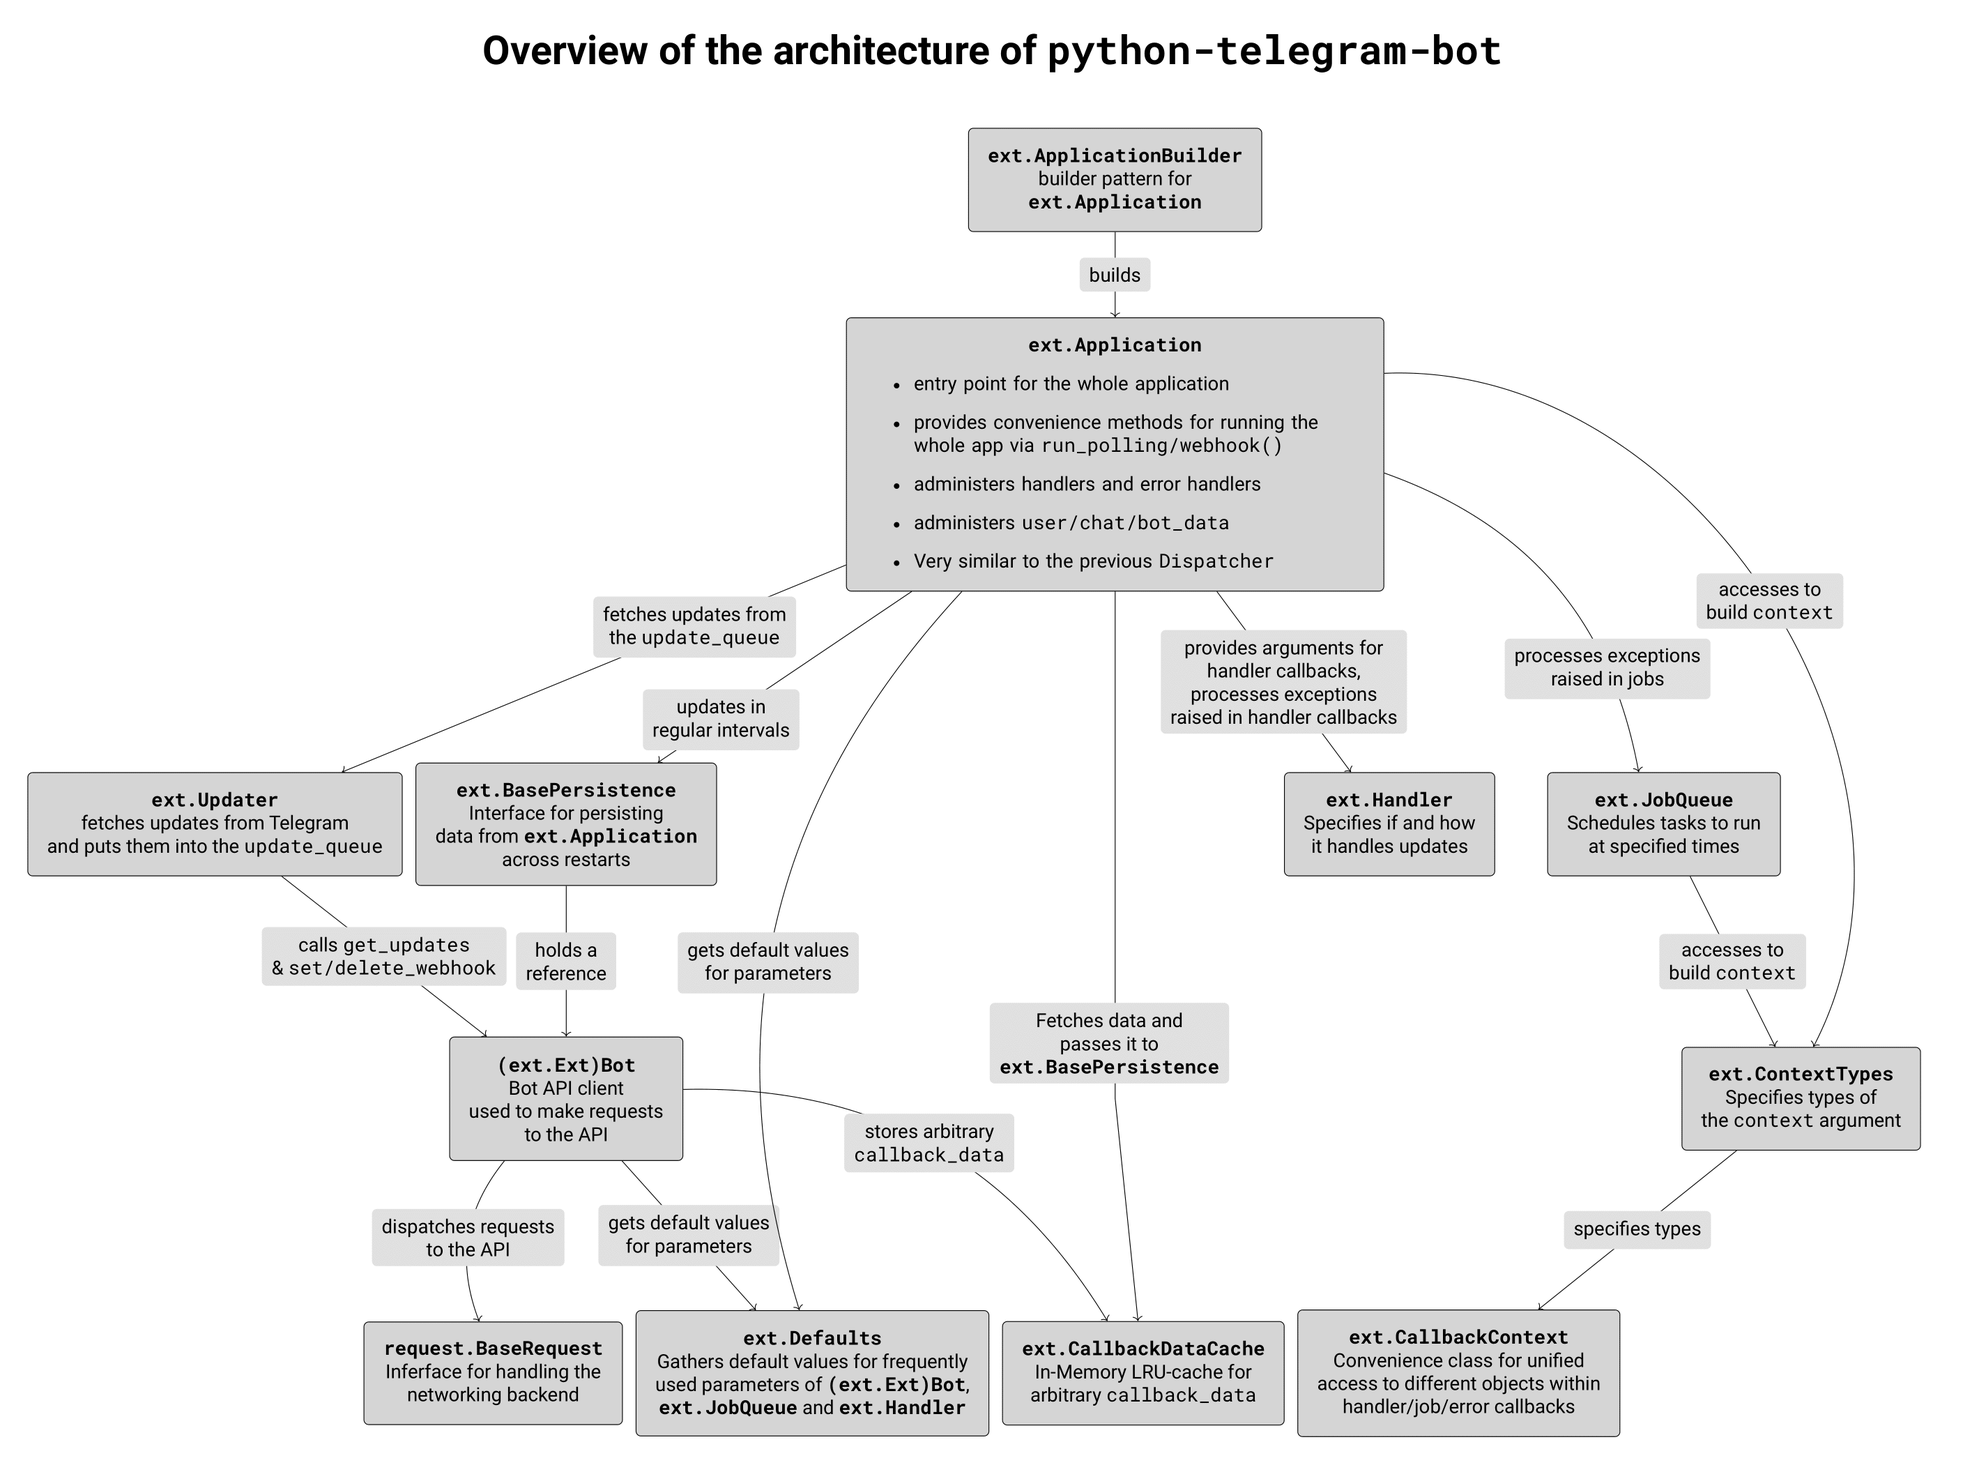
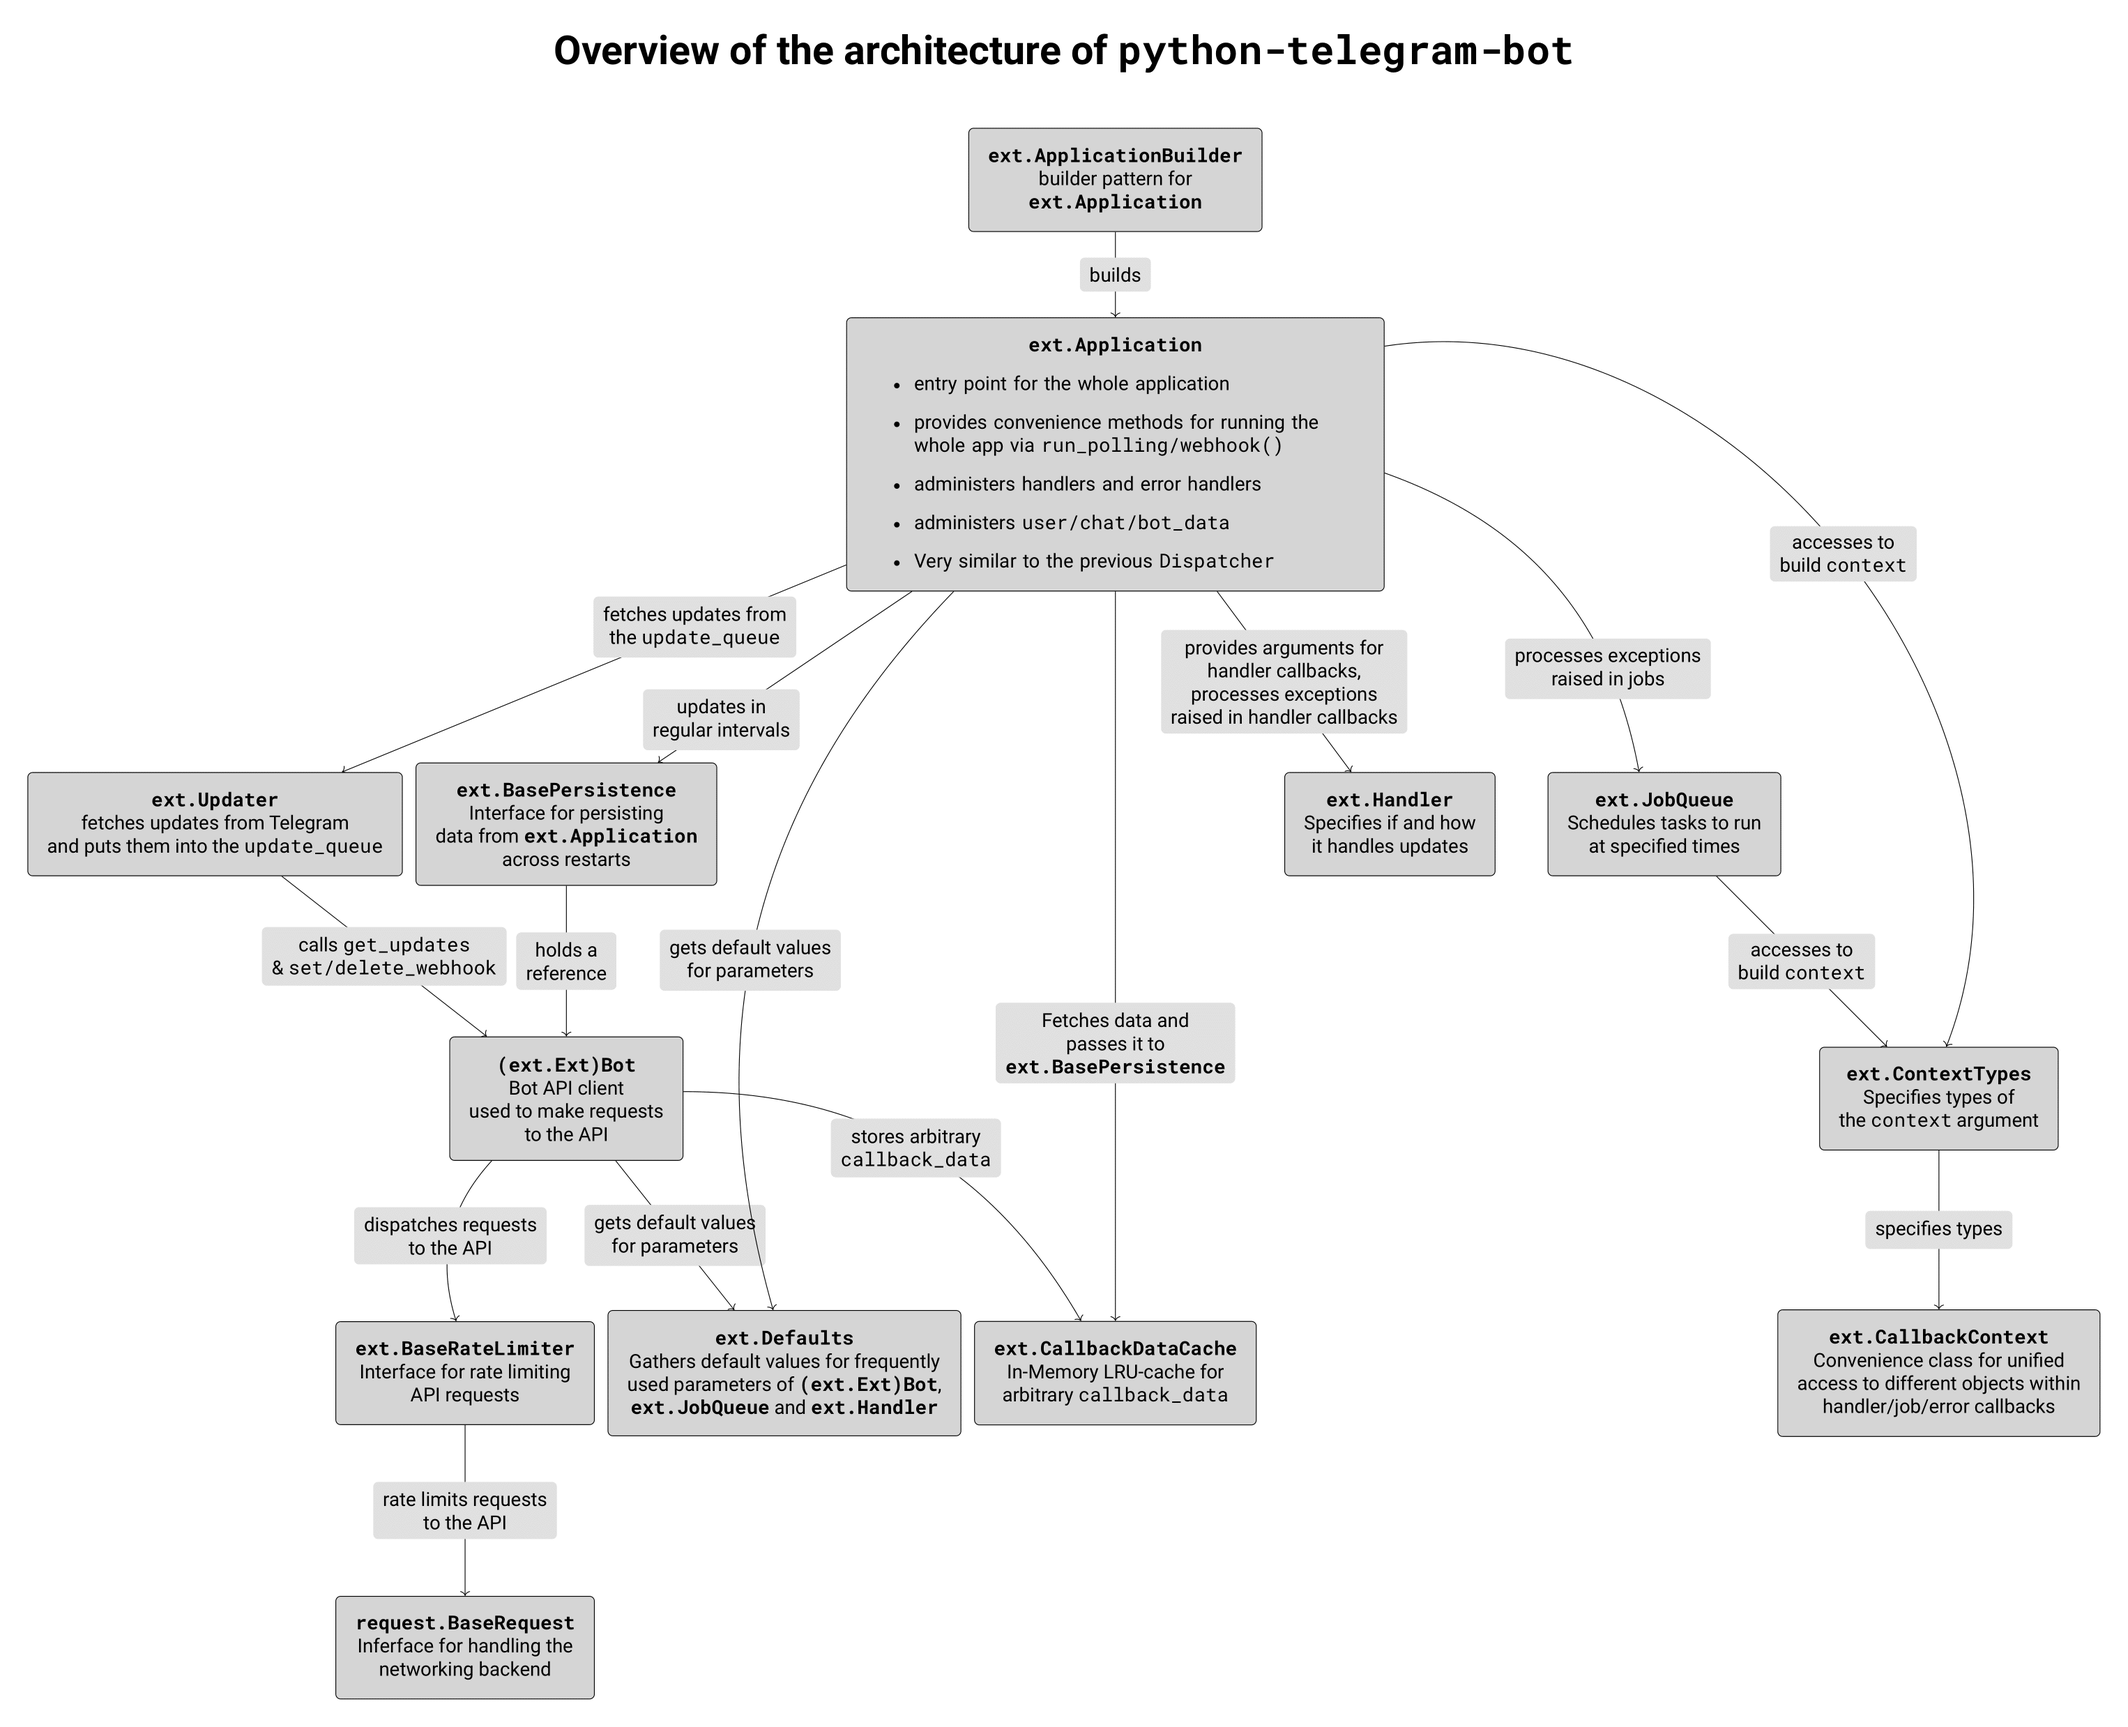
Update wiki about the new rate limiting mechanism Squashed commit of the following:
commit 2faa5885f3aaf753cbd0f8d72a00c5cf50286dda
Author: Hinrich Mahler <22366557+Bibo-Joshi@users.noreply.github.com>
Date:   Thu Aug 25 20:02:19 2022 +0200

    Finish the write-up

commit b56cefe0f79de9b399840c383fd8b08865e1b491
Author: Hinrich Mahler <22366557+Bibo-Joshi@users.noreply.github.com>
Date:   Tue Aug 23 16:07:21 2022 +0200

    Write a bit more

commit 51a4f322bfc18e6d0b3ff933891e3d7fd0878050
Author: Hinrich Mahler <22366557+Bibo-Joshi@users.noreply.github.com>
Date:   Tue Aug 23 14:07:05 2022 +0200

    Get started on writing new rate limiting wiki page

Changed region(s): [[0.0, 0.0, 0.9996, 0.99], [0.4686, 0.5569, 0.5935, 0.6497], [0.8122, 0.2784, 0.9059, 0.3403]]

diff --git a/assets/ptb_architecture.tex b/assets/ptb_architecture.tex
@@ -56,14 +56,23 @@
                     to the API
                 }
             ] -> {
-                BaseRequest[
+                BaseRateLimiter[
                     as={
-                        \class{request.BaseRequest}\\
-                        Inferface for handling the\\
-                        networking backend
+                        \class{ext.BaseRateLimiter}\\
+                        Interface for rate limiting\\
+                        API requests
                     },
                     >"dispatches requests\\to the API",
-                ],
+                ] -> {
+                    BaseRequest[
+                        as={
+                            \class{request.BaseRequest}\\
+                            Inferface for handling the\\
+                            networking backend
+                        },
+                        >"rate limits requests\\to the API",
+                    ]
+                },
                 Defaults[
                     as={
                         \class{ext.Defaults}\\
@@ -80,7 +89,7 @@
                     },
                 ]
             };
-            Bot ->[bend right] BaseRequest;
+            Bot ->[bend right] BaseRateLimiter;
             Bot[
                 <"stores arbitrary\\\texttt{callback\_data}"
             ] ->[bend left] CallbackDataCache;

diff --git a/Avoiding-flood-limits.md b/Avoiding-flood-limits.md
@@ -1,10 +1,85 @@
-## What the spam limits are and why you should avoid hitting them
-Considering [Telegram's Bot documentation](https://core.telegram.org/bots/faq#my-bot-is-hitting-limits-how-do-i-avoid-this), currently the maximum amount of messages being sent by bots is limited to 30&#160;messages/second for all ordinary messages and 20&#160;messages/minute for group messages. According to [@BotSupport](https://t.me/BotSupport) the limit for group also applies to channels (this is not confirmed by Telegram in their documentation however). When your bot hits spam limits, it starts to get 429 errors from Telegram API. And assuming that error handling in such case usually is coded as simple retrials, the running machine would spend a lot of CPU time retrying (or got locked down, depending on bot implementation details). And constantly retrying to send messages while ignoring API errors could result in your bot being banned for some time.
+# Flood Limits & Why to Avoid Them
 
-That means, if you're making a production-ready bot, which should serve numerous users **it's always a good idea to use throughput limiting mechanism for messages being sent**. This way you could be sure that all messages would be delivered to end-users as soon as possible in ordered way.
+Considering [Telegram's Bot documentation](https://core.telegram.org/bots/faq#my-bot-is-hitting-limits-how-do-i-avoid-this), currently the maximum amount of messages being sent by bots is limited to ~30 messages/second for all ordinary messages and ~20 messages/minute for group messages.
+According to [@BotSupport](https://t.me/BotSupport) the limit for group also applies to channels (this is not confirmed by Telegram in their documentation however).
+We emphasize that Telegram does *not* document the precise limits, neither for sending messages nor for other kinds of API requests.
+Moreover, the limits may differ between bots and also over time. 
 
-## Available tools and their implementation details
+When your bot hits spam limits, it starts to get `RetryAfter` errors from Telegram API.
+If you want to make sure that the message is actually sent and hence just try again on every `RetryAfter` error, your code would spend a significant amount resources just on those retries.
+Moreover, constantly retrying to send messages while ignoring API errors could result in your bot being banned for some time.
 
-Currently, PTB has no built-in mechanism to avoid flood limits. The previously used `MessageQueue` was removed in v20 as it had a number of bugs and was not well integrated with the library.
+That means, if you're making a production-ready bot that is expected to have a large number of users, it's a good idea to use throughput limiting mechanism for messages being sent/requests being made to the Bot API.
+This way you can ensure that all messages would be delivered to end-users as soon as possible in ordered way.
 
-Adding a new mechanism is on the roadmap.
+# PTBs Rate Limiting Mechanism
+
+Since v20 (v20.0a3, to be precise), PTB comes with a built-in mechanism to throttle the number of API requests that your bot makes per time interval.
+This mechanism is exposed through the `telegram.ext.BaseRateLimiter` interface class.
+This class has basically one important abstract coroutine method, called `BaseRateLimiter.process_request`.
+This method is called every time when your bot makes an API request and it's purpose is to delay the request such that your bot doesn't hit the rate limits.
+Any implementation of `BaseRateLimiter` can implement its own logic on how this should be done.
+If you observe a particular pattern in how your bot receives `RetryAfter` errors (e.g. messages to one particular group trigger `RetryAfter` errors quickly), you can implement a logic that addresses these specific patterns.
+
+The `BaseRateLimiter` setup can be used only with `telegram.ext.ExtBot`, not with `telegram.Bot`.
+It's easy to set up and use.
+Assume that `MyLimiter` implements `BaseRateLimiter`.
+Then we use like this:
+
+```python
+from telegram import Update
+from telegram.ext import ApplicationBuilder, ContextTypes, CommandHandler
+
+application = ApplicationBuilder().token("TOKEN").rate_limiter(MyLimiter()).build()
+
+
+async def start(update: Update, context: ContextTypes.DEFAULT_TYPE):
+    # This is automatically passed through `MyLimiter.process_request`!
+    await update.message.reply_text(text="Hello World!")
+
+
+application.add_handler(CommandHandler('start', start))
+```
+
+You may also pass additional information to `MyLimiter.process_request`.
+Imagine that you want to broadcast a message to all the users of your bot.
+You might want to give those messages a lower priority, answering requests of your users should be faster.
+This could look like this:
+
+```python
+import asyncio
+from telegram import Update
+from telegram.ext import ApplicationBuilder, ContextTypes, CommandHandler
+
+application = ApplicationBuilder().token("TOKEN").rate_limiter(MyLimiter()).build()
+user_ids = [1, 2, 3]
+
+async def broadcast(update: Update, context: ContextTypes.DEFAULT_TYPE):
+    await update.message.reply_text(text="Starting the broadcast...")
+    context.application.create_task(
+        asyncio.gather(
+            *(
+                context.bot.send_message(
+                    chat_id=user_id, text="Hello World!", rate_limit_args={'priority': -1}
+                )
+                for user_id in user_ids
+            )
+        )
+    )
+
+
+application.add_handler(CommandHandler('broadcast', broadcast))
+```
+
+What kind of input is allowed for the `rate_limit_args` argument is up to the implementation of `BaseRateLimiter`.
+
+# Built-in Rate Limiter
+
+PTB comes with a built-in implementation of `BaseRatelimiter`: The class `telegram.ext.AIORateLimiter` uses the library [aiolimiter](https://aiolimiter.readthedocs.io/).
+Please consult the documentation of `AIORateLimiter` for details on how it applies rate limits to API requests and how it should be used.
+
+⚠  We emphasize that `AIORateLimiter` is to be understood as minimal effort reference implementation.
+If you would like to handle rate limiting in a more sophisticated, fine-tuned way, we
+welcome you to implement your own subclass of `telegram.ext.BaseRateLimiter`.
+Feel free to check out the source code of `AIORateLimiter` class for inspiration.
+
